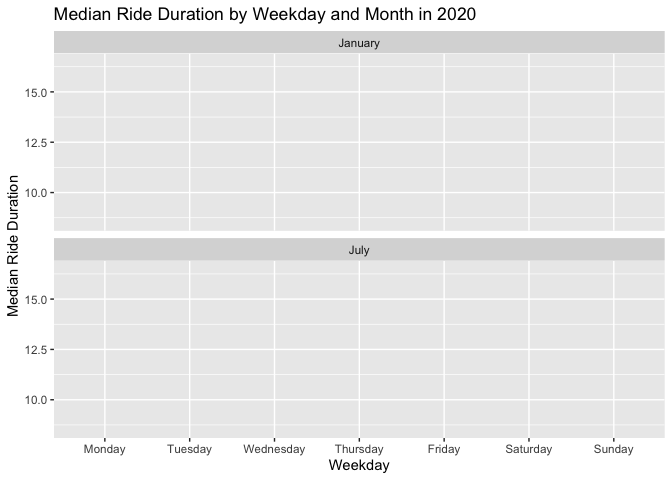
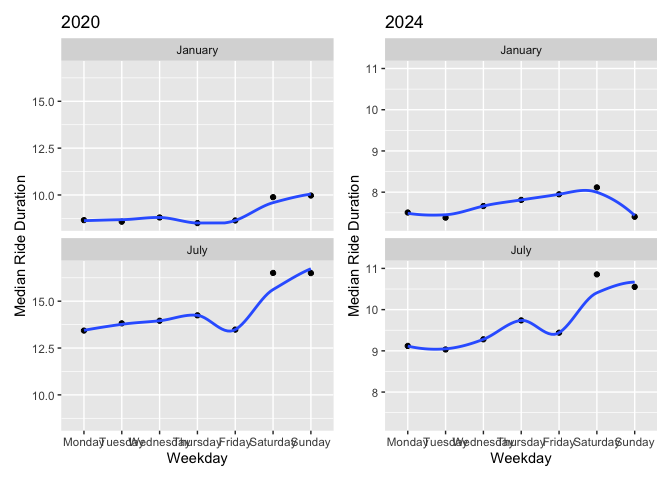
finish problem 3

diff --git a/p8105_hw3_qh2285.md b/p8105_hw3_qh2285.md
@@ -309,26 +309,65 @@ median_duration = all_bike |>
     ## `.groups` argument.
 
 ``` r
-median_duration |> 
+(
+  median_duration |> 
   filter(year == 2020) |> 
-  drop_na(weekdays, median_duration) |>
-  ggplot(aes(x = weekdays, y = median_duration)) +  
-  geom_line() +  
+  group_by(month, weekdays) |>
+  ggplot(aes(x = weekdays, y = median_duration, group = month, group = weekdays)) +  
+  geom_point() +  
   geom_smooth(se = FALSE) +  
   facet_wrap(. ~ month, ncol = 1) +  
-  labs(title = "Median Ride Duration by Weekday and Month in 2020",
-       x = "Weekday", y = "Median Ride Duration") 
+  labs(title = "2020", x = "Weekday", y = "Median Ride Duration") +
+    ylim(8.5, 16.75)
+) + # put 2 plots together
+(
+  median_duration |> 
+  filter(year == 2024) |> 
+  group_by(month, weekdays) |>
+  ggplot(aes(x = weekdays, y = median_duration, group = month, group = weekdays)) +  
+  geom_point() +  
+  geom_smooth(se = FALSE) +  
+  facet_wrap(. ~ month, ncol = 1) +  
+  labs(title = "2024", x = "Weekday", y = "Median Ride Duration") +
+    ylim(7.25, 11)
+)
 ```
 
+    ## Warning: Duplicated aesthetics after name standardisation: group
+    ## Duplicated aesthetics after name standardisation: group
+
     ## `geom_smooth()` using method = 'loess' and formula = 'y ~ x'
-    ## `geom_line()`: Each group consists of only one observation.
-    ## ℹ Do you need to adjust the group aesthetic?
-    ## `geom_line()`: Each group consists of only one observation.
-    ## ℹ Do you need to adjust the group aesthetic?
+
+    ## Warning: Removed 9 rows containing missing values or values outside the scale range
+    ## (`geom_smooth()`).
+
+    ## `geom_smooth()` using method = 'loess' and formula = 'y ~ x'
 
 ![](p8105_hw3_qh2285_files/figure-gfm/unnamed-chunk-11-1.png)<!-- -->
+Comparing between January and July: Median ride duration in July in both
+year are higher than January, and shows similar trends for weekdays.
+Especially in July that duration time drop in Friday, the trend keep
+increase throughout the week otherwise. Comparing between 2020 and 2024:
+Median ride duration time are generally much higher in 2020.
 
-There were relatively few electric Citi Bikes in 2020, but many more are
-available now. For data in 2024, make a figure that shows the impact of
-month, membership status, and bike type on the distribution of ride
-duration. Comment on your results.
+For data in 2024, make a figure that shows the impact of month,
+membership status, and bike type on the distribution of ride duration:
+
+``` r
+all_2024 = bind_rows(jan_2024, july_2024)
+
+all_2024 |>
+  group_by(month, member_casual, rideable_type) |>
+  ggplot(aes(x = member_casual, y = duration, fill = rideable_type)) +
+  geom_boxplot() + 
+  facet_wrap(~ month) + 
+  labs(x = "Membership Status", y = "Ride Duration", fill = "Bike Type") 
+```
+
+![](p8105_hw3_qh2285_files/figure-gfm/unnamed-chunk-12-1.png)<!-- -->
+According to the box plot, all groups have long tails in long-time ride
+duration from about 25 to 250. For casual riders, they ride classic bike
+for a longer time; for city bike members, they ride electric bike for a
+longer time. Duration of city bike members are more concentrated in
+shorter time. January and July show similar distribution, wile duration
+in July is slightly longer.
